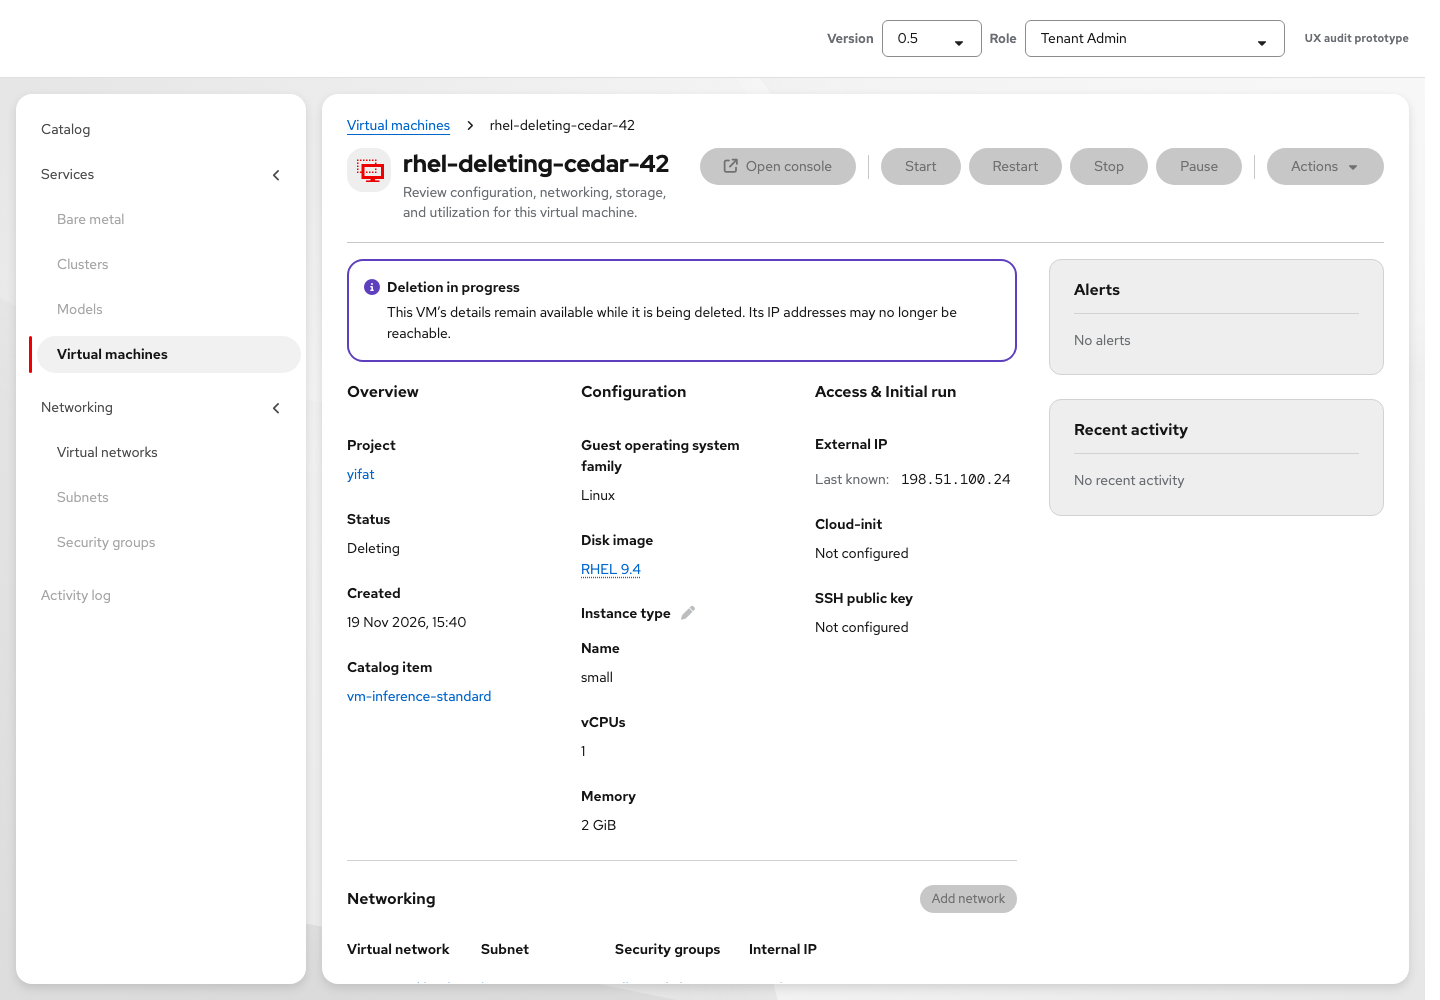
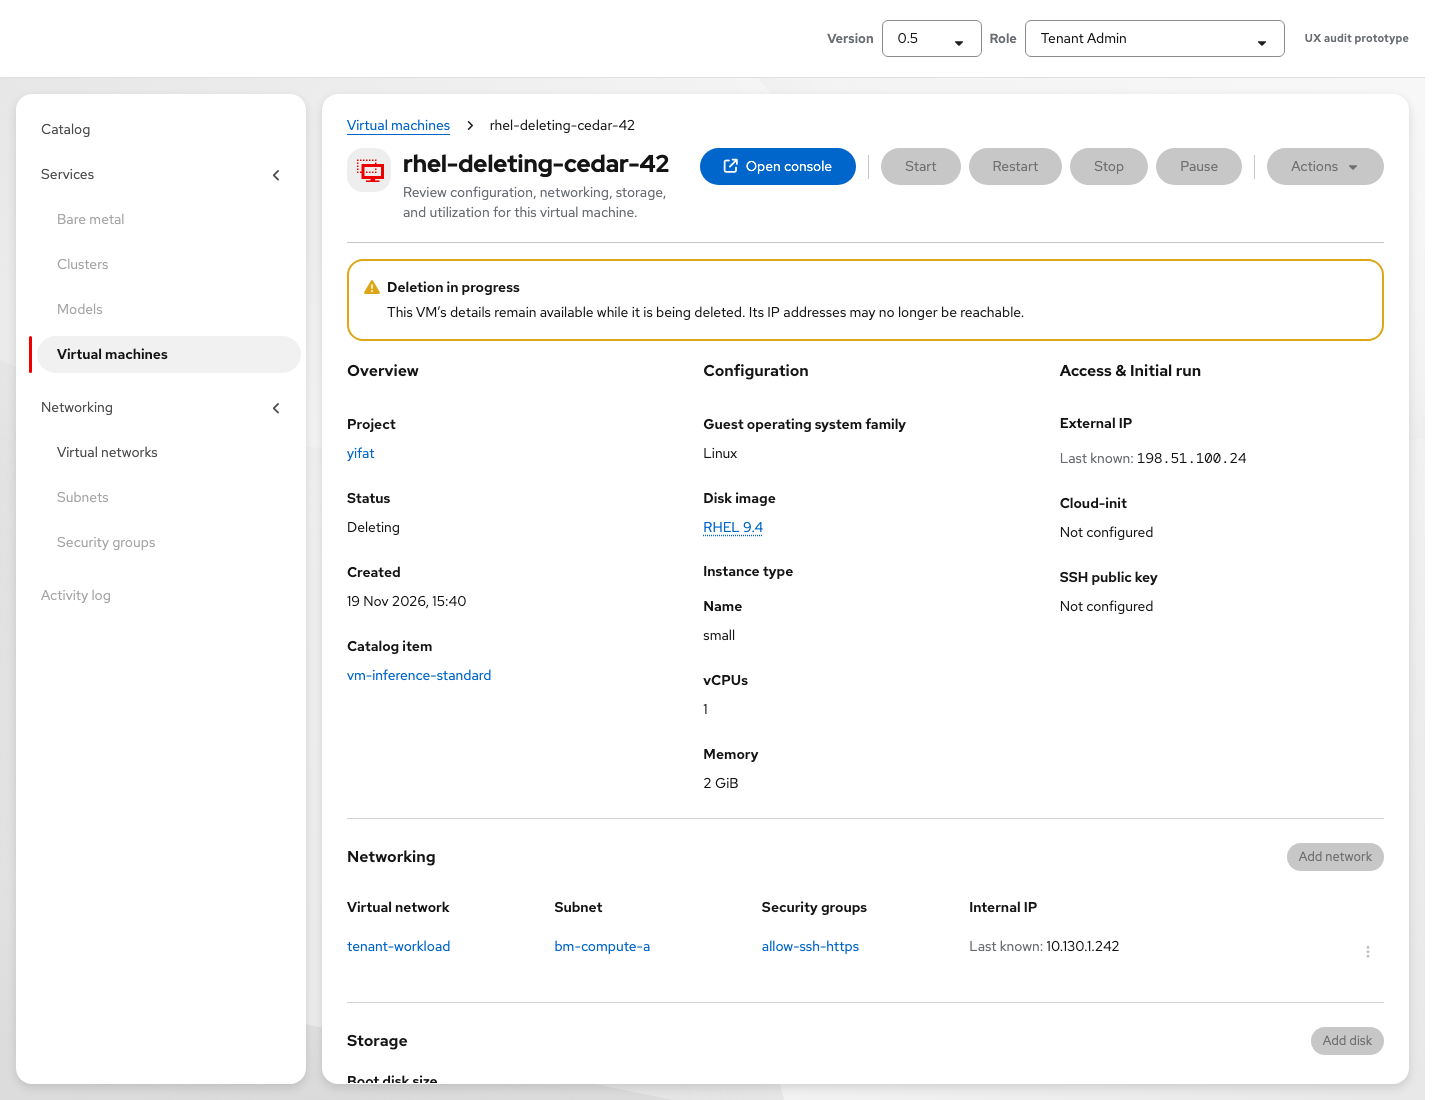
OSAC-7100: update deletion UX screenshots

diff --git a/apps/app-frontend/public/vmaas-ux-prototype.html b/apps/app-frontend/public/vmaas-ux-prototype.html
@@ -17799,7 +17799,7 @@
                 </div>
               </div>
           <div class="ethan-detail-header__actions" role="group" aria-label="Virtual machine actions">
-            <button type="button" class="pf-v6-c-button pf-m-primary" id="vm-open-console" ${deleting ? 'disabled title="Console is unavailable while this virtual machine is being deleted"' : ''}>
+            <button type="button" class="pf-v6-c-button pf-m-primary" id="vm-open-console">
               <span class="pf-v6-c-button__icon"><i class="fa-solid fa-arrow-up-right-from-square" aria-hidden="true"></i></span>
               <span class="pf-v6-c-button__text">Open console</span>
                         </button>
@@ -17832,8 +17832,8 @@
 
       const operationAlertsHtml = vmConfigurationOperationAlertsHtml(v);
       const deletingAlertHtml = deleting ? `
-        <div class="pf-v6-c-alert pf-m-inline pf-m-info vm-restart-required" role="status">
-          <div class="pf-v6-c-alert__icon"><i class="fa-solid fa-circle-info" aria-hidden="true"></i></div>
+        <div class="pf-v6-c-alert pf-m-inline pf-m-warning vm-restart-required" role="alert">
+          <div class="pf-v6-c-alert__icon"><i class="fa-solid fa-triangle-exclamation" aria-hidden="true"></i></div>
           <h3 class="pf-v6-c-alert__title">Deletion in progress</h3>
           <div class="pf-v6-c-alert__description">This VM’s details remain available while it is being deleted. Its IP addresses may no longer be reachable.</div>
         </div>` : '';
